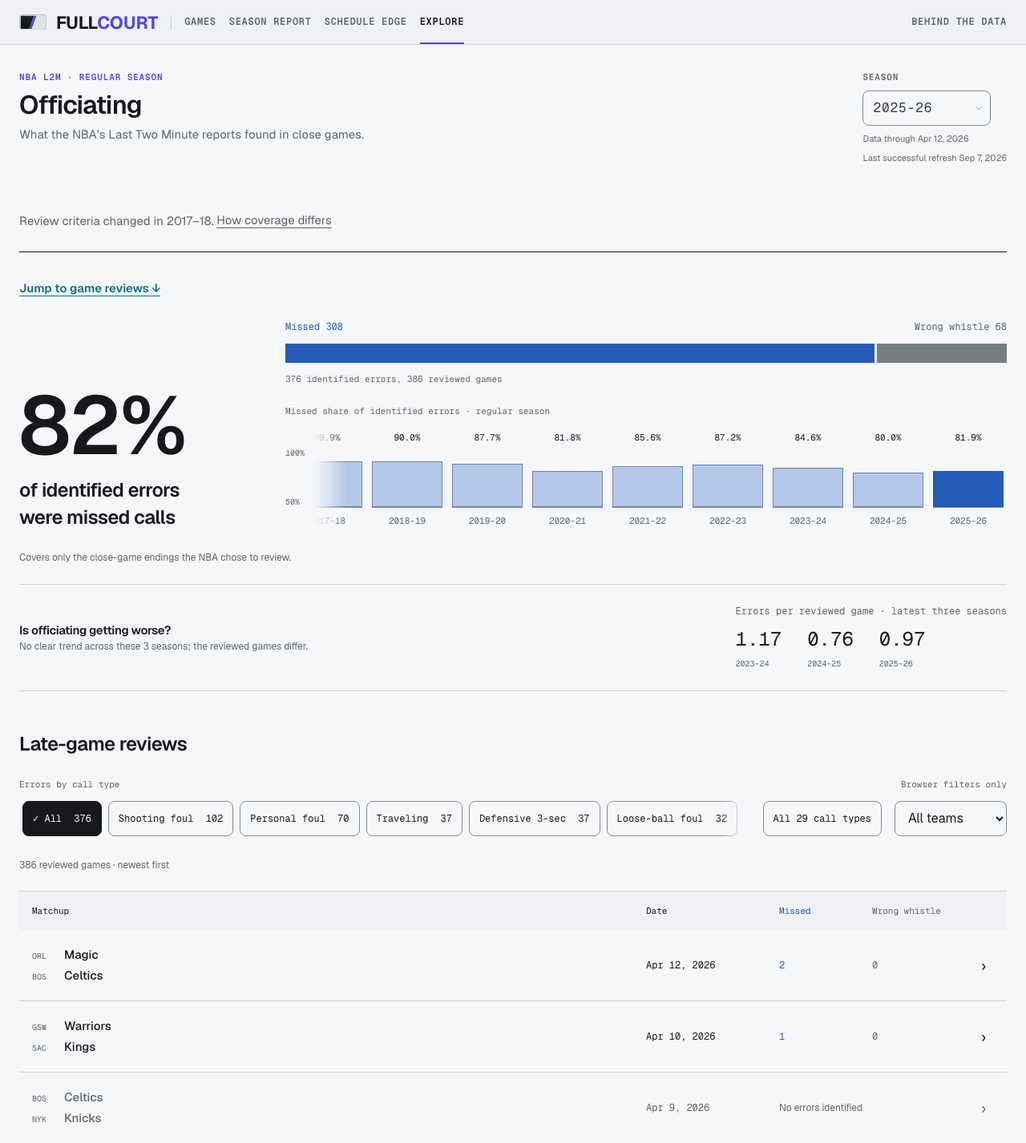
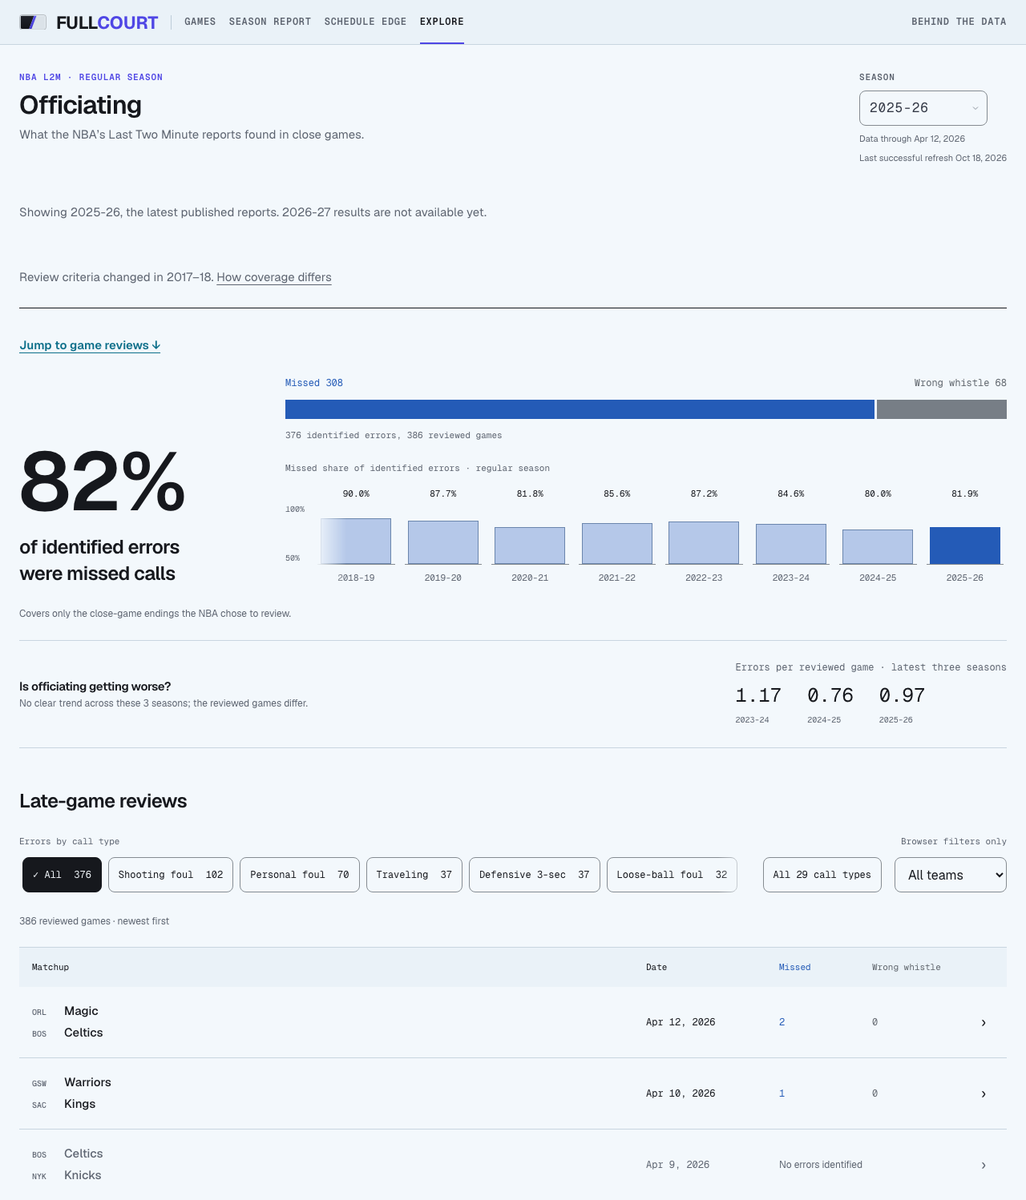
docs: refresh v1.1.0 release evidence and live screenshots (#201)

diff --git a/docs/reports/2026-10-21-mobile-release-security.html b/docs/reports/2026-10-21-mobile-release-security.html
@@ -1,1 +1,1 @@
-<!doctype html><html lang="en"><meta charset="utf-8"><meta name="viewport" content="width=device-width,initial-scale=1"><title>FullCourt v1.1.0 security review</title><style>body{font:15px/1.55 system-ui,sans-serif;color:#172536;background:#f3f8fc;max-width:820px;margin:auto;padding:24px}h1{font-size:32px;line-height:1.2}h2{font-size:24px;margin-top:32px}table{width:100%;border-collapse:collapse}th,td{text-align:left;vertical-align:top;padding:12px 8px;border-bottom:1px solid #b9c8d4}code{overflow-wrap:anywhere}a{color:#3730a3}p{max-width:75ch}@media(max-width:600px){body{padding:16px}h1{font-size:24px}table,tbody,tr,td,th{display:block}thead{display:none}td:first-child{font-weight:600;border:0;padding-bottom:0}}</style><main><h1>FullCourt v1.1.0 security review</h1><p>Review date: 21 October 2026. Scope: approved D01–D10 implementation and the three previously unpushed Behind the Data clarity commits. This review is a release gate; it is not a penetration-test guarantee.</p><h2>Observed controls</h2><table><thead><tr><th>Area</th><th>Evidence and result</th></tr></thead><tbody><tr><td>Production dependencies</td><td>Fresh <code>pnpm audit --prod --json</code>: zero known vulnerabilities across all severities. No dependency or lockfile changes.</td></tr><tr><td>New publication API</td><td>Read-only GET returns ordered public season labels. Fixed query uses publishableGames and both computed fatigue sides. No user SQL fragment, mutation, private field or credential added. Actual local production-server request: HTTP200, 41 published seasons through2025–26,0.864seconds.</td></tr><tr><td>Request and failure handling</td><td>Shared JSON route/schema and production error normalization retained. Successful public results use existing60second CDN cache; failures are not cached. No authorization boundary was added or weakened.</td></tr><tr><td>Live firewall</td><td>Authenticated readback of FullCourt’s active configuration confirmed firewall enabled and a valid active rate limit for the entire /api/ prefix:100requests per IP per60seconds. The new endpoint is covered. No firewall setting changed.</td></tr><tr><td>Client exposure and rendering</td><td>Changed source introduces no private environment exposure, executable HTML sink, untrusted external link or client database credential. Existing CSP and frame restrictions remain intact.</td></tr><tr><td>Data integrity</td><td>No schema, database write, generated analytics, fatigue coefficient or historical prediction change. Explicit new-season choices remain selected and hidden results fail closed while readiness is unresolved.</td></tr></tbody></table><h2>Limits and release acceptance</h2><p>This audit inspected changed source and relevant existing controls, ran dependency and API contract checks, and read the live edge configuration. It did not perform destructive testing, database access-policy changes, a full infrastructure penetration test, or physical-device/VoiceOver testing. Exact-commit independent review, preview verification and production readback are recorded in the release receipt after completion.</p><p>Reproduction evidence is retained locally under <code>docs/audit/mobile-2026-10-21/</code>. Project release notes and Git history identify the final candidate.</p></main></html>
+<!doctype html><html lang="en"><meta charset="utf-8"><meta name="viewport" content="width=device-width,initial-scale=1"><title>FullCourt v1.1.0 security review</title><style>body{font:15px/1.55 system-ui,sans-serif;color:#172536;background:#f3f8fc;max-width:820px;margin:auto;padding:24px}h1{font-size:32px;line-height:1.2}h2{font-size:24px;margin-top:32px}table{width:100%;border-collapse:collapse}th,td{text-align:left;vertical-align:top;padding:12px 8px;border-bottom:1px solid #b9c8d4}code{overflow-wrap:anywhere}a{color:#3730a3}p{max-width:75ch}@media(max-width:600px){body{padding:16px}h1{font-size:24px}table,tbody,tr,td,th{display:block}thead{display:none}td:first-child{font-weight:600;border:0;padding-bottom:0}}</style><main><h1>FullCourt v1.1.0 security review</h1><p>Review date: 21 October 2026. Scope: approved D01–D10 implementation and the three previously unpushed Behind the Data clarity commits. This review is a release gate; it is not a penetration-test guarantee.</p><h2>Observed controls</h2><table><thead><tr><th>Area</th><th>Evidence and result</th></tr></thead><tbody><tr><td>Production dependencies</td><td>Fresh <code>pnpm audit --prod --json</code>: zero known vulnerabilities across all severities. No dependency or lockfile changes.</td></tr><tr><td>New publication API</td><td>Read-only GET returns ordered public season labels. Fixed query uses publishableGames and both computed fatigue sides. No user SQL fragment, mutation, private field or credential added. Actual local production-server request: HTTP200, 41 published seasons through2025–26,0.864seconds.</td></tr><tr><td>Request and failure handling</td><td>Shared JSON route/schema and production error normalization retained. Successful public results use existing60second CDN cache; failures are not cached. No authorization boundary was added or weakened.</td></tr><tr><td>Live firewall</td><td>Authenticated readback of FullCourt’s active configuration confirmed firewall enabled and a valid active rate limit for the entire /api/ prefix:100requests per IP per60seconds. The new endpoint is covered. No firewall setting changed.</td></tr><tr><td>Client exposure and rendering</td><td>Changed source introduces no private environment exposure, executable HTML sink, untrusted external link or client database credential. Existing CSP and frame restrictions remain intact.</td></tr><tr><td>Data integrity</td><td>No schema, database write, generated analytics, fatigue coefficient or historical prediction change. Explicit new-season choices remain selected and hidden results fail closed while readiness is unresolved.</td></tr></tbody></table><h2>Limits and release acceptance</h2><p>This audit inspected changed source and relevant existing controls, ran dependency and API contract checks, and read the live edge configuration. It did not perform destructive testing, database access-policy changes, a full infrastructure penetration test, or physical-device/VoiceOver testing. Independent review approved candidate cb237b3c; PR #200 merged it as 9c313de8. Production deployment dpl_7APuWsqku5cEFWRKdPfRnYgFh9Gc is READY on that merge commit and serves fullcourt.fyi. All 50 public-data browser checks passed across four phone widths and desktop, with no document overflow, page errors or main error alerts. Actual Geist/Geist Mono rendering and security headers were verified; three sampled public source-map URLs returned 404. Version 1.1.0 is tagged and released. Earlier HTTP 503/504 upload failures cleared on retry without a code or configuration change; the underlying provider cause is not established.</p><p>Reproduction evidence is retained locally under <code>docs/audit/mobile-2026-10-21/</code>. Project release notes and Git history identify the final candidate.</p></main></html>

diff --git a/docs/PROJECT_HANDOFF.md b/docs/PROJECT_HANDOFF.md
@@ -1,5 +1,5 @@
 # Project handoff
-Reconciled 2026-10-20. Source/tests and Git take precedence. Rationale: [Decisions](DECISIONS.md).
+Reconciled 2026-10-21. Source/tests and Git take precedence. Rationale: [Decisions](DECISIONS.md).
 ## Product and release
 FullCourt studies NBA rest, travel, schedule density, and outcomes. The homepage leads with
 rest and schedule findings; Games, Season Report, Schedule Edge, and Explore are the primary
@@ -108,42 +108,24 @@ The [opening-quarter](research/2026-10-20-opening-quarter-travel-review.md),
 D-120 keeps Mileage wording; D-121/ADR 0011 and D-122 prepared v1.0.3. Actual airports/home
 stops, Cup assignments and physical-device/opening-night observation remain unresolved.
 
-## Condensed v1.0.3–v1.0.8 correction chain — 2026-10-20
+## Condensed v1.0.3–v1.0.9 acceptance — 2026-10-21
 
-v1.0.3 (#182), v1.0.4 player appearance/team identity (D-123–D-125, #184), v1.0.5 serverless
-pool (D-126, #185), v1.0.6 homepage history and methods copy (D-127/D-128, #186), v1.0.7
-overtime inputs (D-129/ADR 0015, #187) and v1.0.8 arena/Shooting (D-131/D-132, #189) each
-passed canonical verification; coefficients and graded predictions were preserved. Their
-records own the evidence: [recalculation](research/2026-10-20-historical-recalculation.md),
-[player source](research/2026-10-20-player-appearance-rest-correction.md),
-[methods](research/2026-10-20-methods-accuracy-audit.md),
-[overtime](research/2026-10-20-overtime-correction/README.md),
-[arena ledger](research/2026-10-20-arena-shooting/AUDIT_LEDGER.md) (including V11, the
-homepage built before the data apply and later rebuilt).
+v1.0.3–v1.0.8 corrected arenas, appearances, serverless pooling, homepage history, overtime
+and Shooting (D-123–D-132; #182, #184–#189). Canonical acceptance preserved coefficients,
+graded/playoff history and approved production data. The [arena ledger](research/2026-10-20-arena-shooting/AUDIT_LEDGER.md#v108-production-acceptance-and-v11-remediation-completed--2026-10-20)
+retains full hashes, source reports and V11 homepage-rebuild remediation; earlier pending
+records are chronology. v1.0.8 binds merge `6ddf73f4` and deployment `dpl_6doQr64bTQ9LzGcjes14ViUGSFzz`.
+Writers/aliases were restored with SSO unchanged. Ten non-home/four-logo checks remained same-source.
 
-Carried forward: intermittent Google Fonts builds stay monitored; Section 7 is report-only and
-2026-27 grading stays deferred; actual airports, Cup assignments, physical devices and the
-first real slate remain unobserved. Raw backups and private receipts that lived in the
-per-task worktrees are now local-only in `../fullcourt-local-archive/worktree-archive-2026-10-20/`,
-outside the repo because `tsconfig.json` type-checks every `**/*.ts` under it.
-
-## v1.0.8 canonical acceptance; v1.0.9 prepared — 2026-10-20
-
-[v1.0.8](https://github.com/mhju0/fullcourt/releases/tag/v1.0.8) binds merge `6ddf73f4` and
-rebuilt deployment `dpl_6doQr64bTQ9LzGcjes14ViUGSFzz`. Approved production AFTER `83fc2c66…`
-matches all six domains; graded/playoff history is preserved, with eight future gap updates.
-Immutable/canonical 86-API comparisons, staged homepage HTML, final canonical 390/1440 home
-and the real homepage regression pass. V11 remediation is complete. Ten non-home/four-logo
-cases remain carried same-source checks. Writers and automatic aliases are restored; SSO
-protection remained unchanged throughout.
-The ledger's [acceptance](research/2026-10-20-arena-shooting/AUDIT_LEDGER.md#v108-production-acceptance-and-v11-remediation-completed--2026-10-20)
-pins full hashes and private receipt identities; older pending entries above are chronology.
-Secret alert #1 is still open; revocation/history purge is unknown. Existing device/slate/Cup/
-travel limits remain. Cleanup implementation `ffc9be7b` is reviewed; final documentation
-review/publication remains pending.
-
-## v1.0.9 release closeout — 2026-10-20
[1 lines of base64/hex data omitted]
+v1.0.9 (#190, `c5e504e`, `dpl_HbmiLvRZLNtmcU33FzwVrvLTtmc6`) verified seven live requests
+(3,440 values), homepage 390/1440 and real-API headline E2E. Local research inputs validated,
+old/private evidence was preserved and PostgreSQL stopped. Receipt:
+`docs/audit/repository-cleanup-20261020/release/release-acceptance.json`, SHA256
[1 lines of base64/hex data omitted]
+Private worktree evidence is archived outside the repo at `../fullcourt-local-archive`.
+Carried forward: Section 7 report-only/2026-27 grading deferred; actual airports, Cup assignments,
+physical devices and real-slate observation remained open. Later entries close the font-download,
+secret-alert and documentation follow-ups; no further production-data change occurred here.
 
 ## Post-v1.0.9 accuracy audit and local cleanup — 2026-10-20
 
@@ -193,8 +175,20 @@ live deployment. Implemented current actual-publication defaults, explicit-curre
 compact Games/Schedule/Shooting reading order, linked chart readouts, one-court model
 comparison, annual Availability selection and 15px explanatory text. The new read-only
 `/api/season-report-publication` discovers report seasons; schedule API behavior is preserved.
-Claude’s clarity commits are included, with three semantic copy regressions and375px
+Claude’s clarity commits are included, with three semantic copy regressions and 375px
 formula/table overflow corrected. v1.1.0 carries these changes; final release evidence belongs to its immutable Git tag,
 GitHub release and dated local acceptance receipt.
 No schema, fatigue coefficient, published artifact or historical prediction was changed.
 Physical iPhone/Safari/VoiceOver and actual opening-night ingestion remain unverified.
+
+## v1.1.0 release and documentation refresh — 2026-10-21
+
+v1.1.0 is published at merge `9c313de8f6e42ae3f7e89307b15a08225415339e`, canonical Ready
+Vercel deployment `dpl_7APuWsqku5cEFWRKdPfRnYgFh9Gc`. The [release verification](reports/2026-10-21-mobile-release-security.html) reported
+50/50 production cases (40 WebKit phone, 10 Chromium desktop), zero page overflow, alerts or
+page errors; real-font, security-header and three source-map-404 checks also passed.
+README/default-season/font descriptions now match source. Six [production screenshots](screenshots/README.md)
+replace October 17 captures and show desktop plus 375/402px reading order; the local social
+preview was re-fetched from the live OG endpoint and already matched. Capture provenance pins URLs, time and SHA.
+Physical iPhone/Safari/VoiceOver and actual completed-slate ingestion remain unverified.
+Next: observe those real-world paths; GitHub/portfolio publication has its own readback evidence.

diff --git a/README.md b/README.md
@@ -6,7 +6,7 @@
 
 NBA rest and schedule findings, player shooting splits, and source-linked officiating reports.
 
-**v1.0.0 · Official release: October 19, 2026** · [Release history](CHANGELOG.md)
+**v1.1.0 · October 21, 2026** · [Release history](CHANGELOG.md)
 
 [![CI](https://github.com/mhju0/fullcourt/actions/workflows/ci.yml/badge.svg)](https://github.com/mhju0/fullcourt/actions/workflows/ci.yml)
 [![Daily NBA Update](https://github.com/mhju0/fullcourt/actions/workflows/daily-update.yml/badge.svg)](https://github.com/mhju0/fullcourt/actions/workflows/daily-update.yml)
@@ -34,34 +34,48 @@ data flow, implementation tradeoffs and verification. About identifies the autho
 to that walkthrough in the application.
 
 [Data status](https://fullcourt.fyi/data-status) separates coverage and available
-refresh dates from database connectivity. Playoff Rest and Expected Shot Value open their latest
-published results and preserve selected views in shareable links.
+refresh dates from database connectivity. Result studies open their latest usable published
+season; selecting the new season explicitly keeps its Awaiting state until results are ready.
+Selected views remain shareable through URLs and browser history.
 
 ## What you can examine
 
 | Page | What it shows |
 | --- | --- |
 | [Games](https://fullcourt.fyi/games) | Browse matchups by season and date, and expand a game to inspect its schedule load. A rested team at home 3 to 5 points fresher is marked as a medium rest edge, 5 or more as a large one. Edges Ahead jumps to the upcoming games where the rested team is at home with the widest gaps. |
-| [Season Report](https://fullcourt.fyi/season) | Completed-season results against their home baseline, team rest records, and the completed games with the largest rest gaps the model called. Small samples are labeled. |
+| [Season Report](https://fullcourt.fyi/season) | Published-season results against their home baseline, team rest records, and the completed games with the largest rest gaps the model called. Small samples are labeled. |
 | [Schedule Edge](https://fullcourt.fyi/schedule) | Within-season rest-edge ranking, schedule worth, travel and workload, and the completed-game fatigue calendar. Details expand on demand. |
 | [Home-Court Advantage](https://fullcourt.fyi/home-court) | Each season's home win rate beside the record of teams that were also more rested at home. |
 | [Model Results](https://fullcourt.fyi/analysis) | Win rates for the rested team at home by gap size and by era, each compared with its venue baseline, the rested-visitor games reported separately, and a searchable game record filtered by gap size and rested side. |
 | [Playoff Rest](https://fullcourt.fyi/playoffs) | Previous-round workload and a separate series probability model. Its probabilities improve on the historical base rate, while its overall accuracy is close to always choosing the home-court team. |
 | [Player Shooting by Rest](https://fullcourt.fyi/shooting) | Effective field goal percentage on no rest versus 2–29 days off. Rest comes from each player's appearances. Single-season splits are noisy; career estimates use shrinkage toward the league mean. |
 | [Expected Shot Value](https://fullcourt.fyi/shot-quality) | Expected shooting value by court location. The model does not observe defender distance, shot-clock pressure, or shot difficulty beyond location. |
-| [Availability Cost](https://fullcourt.fyi/availability) | The estimated margin associated with a missing rotation player, controlling for team strength and schedule factors. Absences are identified after games, so this is not a lineup forecast. |
+| [Availability Cost](https://fullcourt.fyi/availability) | The estimated margin associated with a missing rotation player, controlling for team strength and schedule factors, with selectable annual readouts. Absences are identified after games, so this is not a lineup forecast. |
 | [Officiating](https://fullcourt.fyi/officiating) | NBA Last Two Minute findings across 12 regular seasons (2014–15 through 2025–26), by team and call type, with the NBA’s verdicts inside each game. Covers selected close-game endings; earlier referee studies remain in the research archive. |
 
 ## Screenshots
 
-Captured from [fullcourt.fyi](https://fullcourt.fyi) on 2026-10-17; [capture provenance](docs/screenshots/manifest.json).
-Live pages carry the latest data.
+Captured from [fullcourt.fyi](https://fullcourt.fyi) on 2026-10-21 at v1.1.0 (`9c313de8`);
+[capture details and reproduction](docs/screenshots/README.md). Desktop images show historical
+Games and the current published studies. Phone images use 375px and 402px Chromium viewports.
+Physical iPhone, Safari and VoiceOver behavior remains unverified; live data can change.
 
 <img src="docs/screenshots/games.png" alt="Games board for December 2, 2024: season and date controls above four matchups, two marked MEDIUM REST EDGE and one LARGE REST EDGE." width="900" />
 
-<img src="docs/screenshots/shooting.png" alt="Compact player shooting table with both rest splits, attempt counts, and signed difference cells." width="900" />
+<img src="docs/screenshots/shooting.png" alt="Player shooting table for the latest published season, with rest splits, attempt counts and signed difference cells." width="900" />
 
 <img src="docs/screenshots/officiating.png" alt="Officiating page showing the missed-call share, season context and a link to game reviews." width="900" />
+
+<p>
+<img src="docs/screenshots/games-mobile-375.png" alt="Games at 375px: compact date controls and a complete historical matchup above the bottom navigation." width="250" />
+<img src="docs/screenshots/shooting-mobile-402.png" alt="Shooting at 402px: player search, collapsed advanced filters and the four-column rest comparison." width="268" />
+<img src="docs/screenshots/schedule-mobile-402.png" alt="Schedule Edge at 402px: season controls, summary and team ranking before detailed status." width="268" />
+</p>
+
+On phones, Games puts matchups earlier, Schedule Edge leads with rankings, and Shooting keeps
+its two rest splits and difference together in four columns. Home Court links graph selection
+to the season readout, chart selections offer an explicit game-browsing action, and Expected
+Shot Value compares models on one court while keeping the selected location.
 
 ## How the fatigue score works
 
@@ -159,9 +173,11 @@ server, set `PLAYWRIGHT_BASE_URL`. Python requirements and contract-test command
 
 Built by [Michael Ju](https://github.com/mhju0).
 
-The interface uses Geist and Geist Mono. The bundled Geist fonts used for social images are
-copyright 2023 Vercel, Inc. and licensed separately under the
-[SIL Open Font License 1.1](src/app/fonts/OFL.txt).
+The interface bundles Geist and Geist Mono locally under the
+[SIL Open Font License 1.1](src/app/fonts/Geist-Variable-OFL.txt);
+[font provenance](src/app/fonts/Geist-Variable-PROVENANCE.md) records official sources and hashes.
+The separate static Geist fonts used for social images retain their
+[original license](src/app/fonts/OFL.txt).
 
 Copyright (c) 2026 Michael Ju. All rights reserved. No license is granted for use, copying,
 modification, or distribution of this code. The repository is public for portfolio review.

diff --git a/docs/screenshots/README.md b/docs/screenshots/README.md
@@ -1,0 +1,43 @@
+# Product screenshots
+
+Captured on 2026-10-21 from https://fullcourt.fyi after the v1.1.0 production alias was
+verified at commit `9c313de8f6e42ae3f7e89307b15a08225415339e`, Ready deployment
+`dpl_7APuWsqku5cEFWRKdPfRnYgFh9Gc`. [manifest.json](manifest.json) records each URL,
+viewport, timestamp and page width. These are real rendered pages with live APIs, without
+fixture substitution or image retouching. Data and default published seasons can change.
+
+| Image | View |
+| --- | --- |
+| [games.png](games.png) | Desktop historical Games, 2024-12-02 |
+| [shooting.png](shooting.png) | Desktop Shooting, latest published default |
+| [officiating.png](officiating.png) | Desktop Officiating overview and reviews |
+| [games-mobile-375.png](games-mobile-375.png) | Games at 375 × 812 CSS pixels |
+| [shooting-mobile-402.png](shooting-mobile-402.png) | Shooting at 402 × 874 CSS pixels |
+| [schedule-mobile-402.png](schedule-mobile-402.png) | Schedule Edge at 402 × 874 CSS pixels |
+
+[Social preview](../social-preview.png) was fetched from the live `/opengraph-image` endpoint
+on the same date and visually checked; its bytes already matched the tracked preview.
+
+The phone captures demonstrate the compact reading order, four-column shooting comparison
+and early schedule ranking. They use Chromium at device scale 1 with reduced motion.
+The generator waits for populated content and loaded fonts, and rejects page-wide horizontal
+overflow. Desktop images end after a representative content row; phone images retain the
+viewport and bottom navigation. Physical iPhone/Safari/VoiceOver behavior is unverified.
+
+## Reproduce
+
+Run from the repository root with Playwright Chromium installed. Verify the production alias
+and exact deployed commit before filling the identity fields; the generator records supplied
+values and does not query Vercel itself.
+
+```sh
+SCREENSHOT_BASE_URL=https://fullcourt.fyi \
+SCREENSHOT_DEPLOYMENT_SHA=9c313de8f6e42ae3f7e89307b15a08225415339e \
+SCREENSHOT_DEPLOYMENT_ID=dpl_7APuWsqku5cEFWRKdPfRnYgFh9Gc \
+node scripts/screenshots.mjs
+```
+
+Append image names without `.png` to capture selected views, for example
+`node scripts/screenshots.mjs games shooting-mobile-402`. For a populated local app,
+`SCREENSHOT_BASE_URL=http://localhost:3000 node scripts/screenshots.mjs` needs no deployment
+identity. Local captures should not be described as production evidence.

diff --git a/docs/README.md b/docs/README.md
@@ -1,6 +1,8 @@
 # Documentation
 
-Current implementation and operational reference, reconciled with source on 2026-09-08.
+Current implementation and operational reference. The v1.1.0 release overview and screenshots
+were reconciled with source and production on 2026-10-21. Individual guides retain their own
+change history; this date does not imply every operational check was rerun.
 Start with the topic you need; do not use old release notes as setup instructions.
 
 | Question | Source of truth |
@@ -35,7 +37,7 @@ observed results with its commit and verification limits.
 Generated figures belong to their producing scripts. Preserve source snapshots, pre-registrations,
 model evaluation reports, ADR amendments, and published content-addressed report files. Remove
 superseded mockups and disposable captures once their decisions are recorded; Git retains them.
-Screenshots have one generator and capture manifest in `docs/screenshots/`.
+Screenshots have one [generator and capture manifest](screenshots/README.md) in `docs/screenshots/`.
 
 The active contributor contract is [AGENTS.md](../AGENTS.md). Historical Claude material is
 identified as such and does not override it. This cleanup does not migrate agent harnesses.

diff --git a/docs/TESTING_AND_CICD.md b/docs/TESTING_AND_CICD.md
@@ -118,12 +118,17 @@ symbolication or later releases. No site code or database was changed by the pro
 
 ```sh
 SCREENSHOT_BASE_URL=http://localhost:3110 node scripts/screenshots.mjs
-SCREENSHOT_BASE_URL=https://fullcourt.fyi node scripts/screenshots.mjs games
+SCREENSHOT_BASE_URL=https://fullcourt.fyi \
+SCREENSHOT_DEPLOYMENT_SHA='<verified-production-commit>' \
+SCREENSHOT_DEPLOYMENT_ID='<verified-ready-deployment>' \
+node scripts/screenshots.mjs games shooting-mobile-402
 node scripts/check-doc-links.mjs
 ```
 
-The screenshot manifest records the source URL, route, viewport, and capture time. Keep one
-current capture per selected route; Git contains old captures. The documentation-link check
+The screenshot manifest records the source URL, route, viewport, capture time, browser,
+page width and supplied deployment identity. Verify the alias and commit before supplying them.
+The default run captures all desktop and phone views; see [capture details](screenshots/README.md).
+Keep one current capture per selected view; Git contains old captures. The documentation-link check
 catches missing local Markdown targets. Neither command verifies the correctness of a finding.
 
 ## Prospective refresh integrity replay

diff --git a/plans/README.md b/plans/README.md
@@ -1,5 +1,9 @@
 # Motion fixes · 2026-10-14
 
+Historical implementation and verification record. Pending-production statements below describe
+the October 14 checkpoint; current release state belongs to [the handoff](../docs/PROJECT_HANDOFF.md)
+and [release history](../CHANGELOG.md).
+
 Baseline: `2d458dfdf2baec2d135c7bf7c6554efa5af91b28`. Execute 001→005; no dependencies. Only these five selected findings are authorized.
 
 | Plan | Severity | Status |
